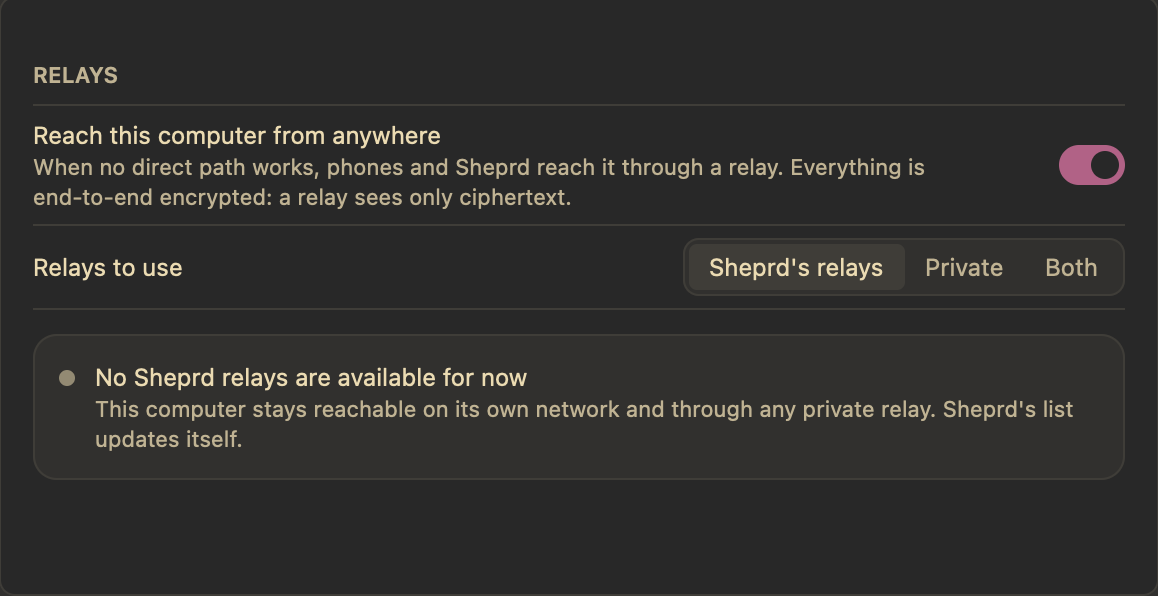
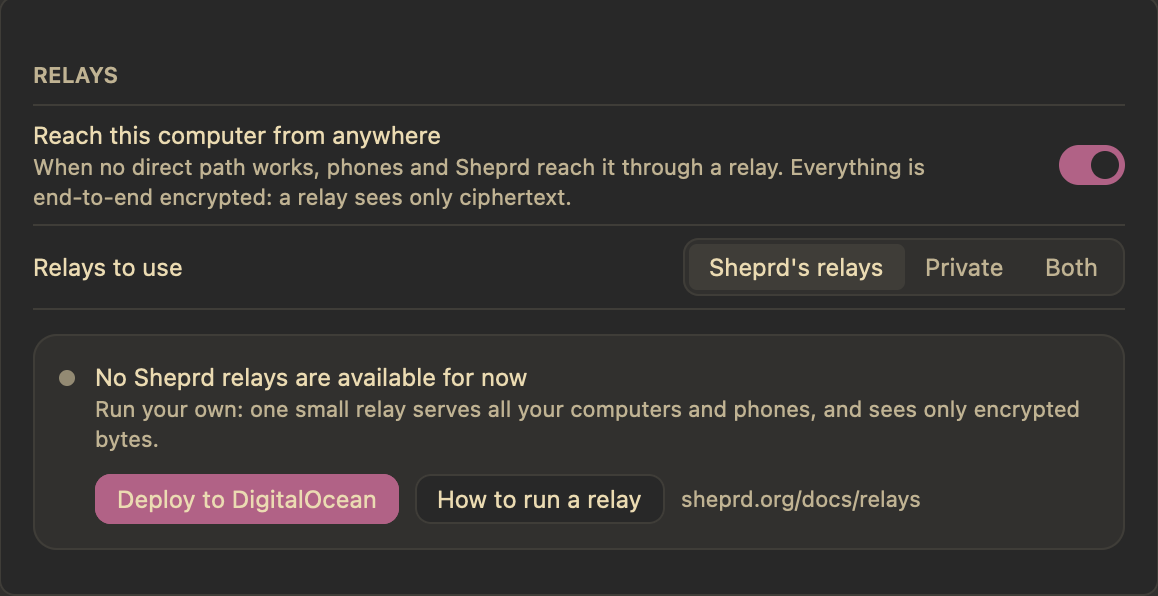
docs(relay): explain running a relay, with a one-click DigitalOcean deploy
Sheprd's relay list is empty for now, so a relay is useful only when
people run their own. A new sheprd.org/docs/relays page explains how:
a Deploy to DigitalOcean button, a droplet with QUIC, or any Docker
host. sheprd_relay::directory::SETUP_URL names that page for the
clients' "No Sheprd relays are available for now" state.

The button reads .do/deploy.template.yaml, which runs the published
multi-architecture image from GHCR, so nothing is built on the user's
account. deploy/relay/app.yaml named the image's registry wrongly
(sheprd-labs instead of ghcr.io); a test now keeps the two specs equal
and both on the published image.

diff --git a/scripts/test_relay_deploy.py b/scripts/test_relay_deploy.py
@@ -55,6 +55,30 @@ class BansTest(unittest.TestCase):
         self.assertEqual(bans_mode(rendered("")), (0o755, 0o644))
 
 
+def service_block(path: str, indent: int) -> list[str]:
+    """The relay service's lines in an App Platform spec, without their
+    indentation, from its `- name: relay` to the end of the file."""
+    with open(os.path.join(ROOT, path), encoding="utf-8") as file:
+        lines = file.read().splitlines()
+    start = next(index for index, line in enumerate(lines) if line.strip() == "- name: relay")
+    return [line[indent:] for line in lines[start:] if line.strip()]
+
+
+class AppPlatformTest(unittest.TestCase):
+    def test_the_deploy_button_template_matches_the_doctl_spec(self) -> None:
+        self.assertEqual(
+            service_block(".do/deploy.template.yaml", 4),
+            service_block("deploy/relay/app.yaml", 2),
+        )
+
+    def test_the_image_is_the_published_one(self) -> None:
+        for path in (".do/deploy.template.yaml", "deploy/relay/app.yaml"):
+            with self.subTest(path=path):
+                block = "\n".join(service_block(path, 0))
+                self.assertIn("registry: ghcr.io", block)
+                self.assertIn("repository: sheprd-labs/sheprd-relay", block)
+
+
 class DomainTest(unittest.TestCase):
     def test_a_given_domain_is_kept(self) -> None:
         self.assertEqual(

diff --git a/site/tests/test_website.py b/site/tests/test_website.py
@@ -101,6 +101,15 @@ class WebsiteTests(unittest.TestCase):
         self.assertIn("Content-Type: application/json", rule)
         self.assertIn("Cache-Control: public, max-age=300", rule)
 
+    def test_relay_setup_docs_exist_where_clients_link(self):
+        """sheprd_relay::directory::SETUP_URL points at the relays docs page."""
+        source = (ROOT / "crates/sheprd-relay/src/directory.rs").read_text()
+        self.assertIn('SETUP_URL: &str = "https://sheprd.org/docs/relays/"', source)
+        slugs, _ = docs_pages()
+        self.assertIn("relays", slugs)
+        page = (ROOT / "website/docs/relays.md").read_text()
+        self.assertIn("cloud.digitalocean.com/apps/new?repo=https://github.com/sheprd-labs/sheprd", page)
+
     def test_scripts_are_served_as_text(self):
         headers = (WEBSITE / "_headers").read_text()
         for name in ("install.sh", "install.ps1", "llms.txt"):

diff --git a/website/tools/docs.py b/website/tools/docs.py
@@ -44,7 +44,7 @@ NAV: list[tuple[str, list[str]]] = [
     ("Start", ["introduction", "install", "quick-start", "updates"]),
     ("Workspaces", ["worktrees", "terminals", "review", "browser", "editors"]),
     ("Agents", ["chat", "orchestrator", "usage", "notifications"]),
-    ("Machines", ["ssh-hosts", "cloud", "teleport", "windows", "remote-control"]),
+    ("Machines", ["ssh-hosts", "cloud", "teleport", "windows", "remote-control", "relays"]),
     ("Customize", ["appearance", "keyboard", "configuration"]),
     ("Extend", ["automations", "mods", "cli"]),
     ("Reference", ["platforms", "troubleshooting"]),

diff --git a/crates/sheprd-relay/src/directory.rs b/crates/sheprd-relay/src/directory.rs
@@ -28,6 +28,10 @@ use serde::Deserialize;
 /// Where Sheprd's relays are listed. Compiled in, so a paired device or
 /// a page cannot redirect a client's relay list.
 pub const URL: &str = "https://sheprd.org/relays.json";
+/// How to run a relay, with the one-click DigitalOcean deploy: where
+/// clients link when no Sheprd relays are available, and next to the
+/// private relay setting.
+pub const SETUP_URL: &str = "https://sheprd.org/docs/relays/";
 /// The format this client reads.
 pub const VERSION: u32 = 1;
 /// The largest list a client accepts.

diff --git a/website/docs/relays.md b/website/docs/relays.md
@@ -1,0 +1,58 @@
+---
+title: Relays
+blurb: Run your own relay, so phones reach your computer from anywhere.
+status: experimental
+platforms: macOS, Linux, Windows
+---
+
+# Relays
+
+A relay joins your phone, or another Sheprd, to your computer when they have no direct path: different networks, no Tailscale, a hotel Wi-Fi in between. Everything that crosses it is end-to-end encrypted, so a relay sees only ciphertext, timing, and sizes; it can never read your chats or terminals, and it keeps nothing on disk.
+
+> **Coming soon.** You can run a relay today. Sheprd, `sheprd-remote-control`, and the iPhone app gain relay support in a coming release; until then they keep reaching your computer [directly or over Tailscale](remote-control.md).
+
+## Sheprd's relays and yours
+
+Sheprd lists its own relays at [sheprd.org/relays.json](https://sheprd.org/relays.json). That list is empty for now: **no Sheprd relays are available for now**, so to use a relay, run your own. One small instance serves all your computers and phones, and you can run as many as you like, in different regions.
+
+Your computers will then use the relays you name, and only those: with a private relay, Sheprd's relays are never contacted.
+
+## Deploy in one click
+
+[![Deploy to DigitalOcean](https://www.deploytodo.com/do-btn-blue.svg)](https://cloud.digitalocean.com/apps/new?repo=https://github.com/sheprd-labs/sheprd/tree/main)
+
+The button creates a DigitalOcean App Platform app from the published image, `ghcr.io/sheprd-labs/sheprd-relay`, with nothing to build or set up. App Platform serves HTTPS but not UDP, so this relay offers only its WebSocket transport: it works from any network, but connects a little slower and does not survive a phone switching networks. For the faster QUIC transport too, use a droplet below.
+
+Once it is running, your relay's address is the app's domain, such as `https://sheprd-relay-abc12.ondigitalocean.app`. To turn on its dashboard, add a `RELAY_DASHBOARD_TOKEN` of 24 or more characters as an encrypted environment variable in the app's settings, then open `/dashboard`.
+
+## Deploy on a droplet
+
+With [`doctl`](https://docs.digitalocean.com/reference/doctl/) signed in, from a checkout of the repository:
+
+```sh
+deploy/relay/create-droplet.sh fra1
+```
+
+Each region named gets a small droplet with only ports 22, 80, and 443 open, and a relay serving both QUIC and WebSockets at `https://IP-WITH-DASHES.sslip.io`, with a Let's Encrypt certificate and no DNS to set up. The dashboard's access token is in `/root/sheprd-relay-login.txt` on the droplet. Set `RELAY_DOMAIN_SUFFIX` to use your own names.
+
+## Any host with Docker
+
+```sh
+cd deploy/relay
+cp env.example .env
+mkdir -p bans && touch bans/list
+RELAY_DOMAIN=relay.example.org docker compose up -d
+```
+
+Point `relay.example.org` at the host first: Caddy gets its certificate on the first request. The image, `ghcr.io/sheprd-labs/sheprd-relay`, runs on amd64 and arm64.
+
+## Keeping it safe
+
+A relay needs no accounts and no setup to stay safe:
+
+- Only devices a computer has paired can reach that computer; anyone else hears that it is offline.
+- Connections, sessions, and bandwidth are limited per address and in total. Every limit is a `RELAY_*` setting with a safe default.
+- Addresses that misbehave are banned automatically, for ten minutes, then an hour, then a day. To ban one yourself, add it to `bans/list`; the relay rereads it every 30 seconds.
+- `RELAY_LISTEN_TOKEN` keeps a relay to your own computers.
+
+The full list of settings is in [`deploy/relay/README.md`](https://github.com/sheprd-labs/sheprd/blob/main/deploy/relay/README.md), and the design in [`docs/relay-plan.md`](https://github.com/sheprd-labs/sheprd/blob/main/docs/relay-plan.md).

diff --git a/website/docs/remote-control.md b/website/docs/remote-control.md
@@ -13,7 +13,7 @@ Remote control lets a phone, or any browser, follow the chats running on your co
 
 Turning on remote control installs a small daemon, `sheprd-remote-control`, as a user service: a LaunchAgent on macOS, a systemd user unit on Linux, or a logon task on Windows. It serves a mobile web app over HTTPS on your local network and, when Tailscale runs on the computer, over Tailscale. It keeps running when Sheprd quits, so phones keep working and notifications keep coming; pairing a new phone still needs Sheprd open.
 
-The phone reaches your computer directly at its network addresses; there is no account to create. The daemon never stops or upgrades your Herdr daemon, and never starts Herdr 1; without one running, the phone shows that Herdr is not running. On a machine with Herdr 2 (herdr-core) and no Herdr 1, such as a cloud machine, opening the phone, or asking for a new tab or chat, starts herdr-core when it is not running.
+The phone reaches your computer directly at its network addresses; there is no account to create. To reach it from anywhere without Tailscale, [relays](relays.md) are coming; you can already run your own. The daemon never stops or upgrades your Herdr daemon, and never starts Herdr 1; without one running, the phone shows that Herdr is not running. On a machine with Herdr 2 (herdr-core) and no Herdr 1, such as a cloud machine, opening the phone, or asking for a new tab or chat, starts herdr-core when it is not running.
 
 From the phone you can:
 

diff --git a/deploy/relay/README.md b/deploy/relay/README.md
@@ -49,7 +49,11 @@ your key ids from `doctl compute ssh-key list` to reach them over SSH.
 
 ## DigitalOcean App Platform (WebSockets only)
 
-No server to manage:
+No server to manage, in one click:
+
+[![Deploy to DigitalOcean](https://www.deploytodo.com/do-btn-blue.svg)](https://cloud.digitalocean.com/apps/new?repo=https://github.com/sheprd-labs/sheprd/tree/main)
+
+The button reads `.do/deploy.template.yaml`. Or, with `doctl`:
 
 ```sh
 doctl apps create --spec deploy/relay/app.yaml
